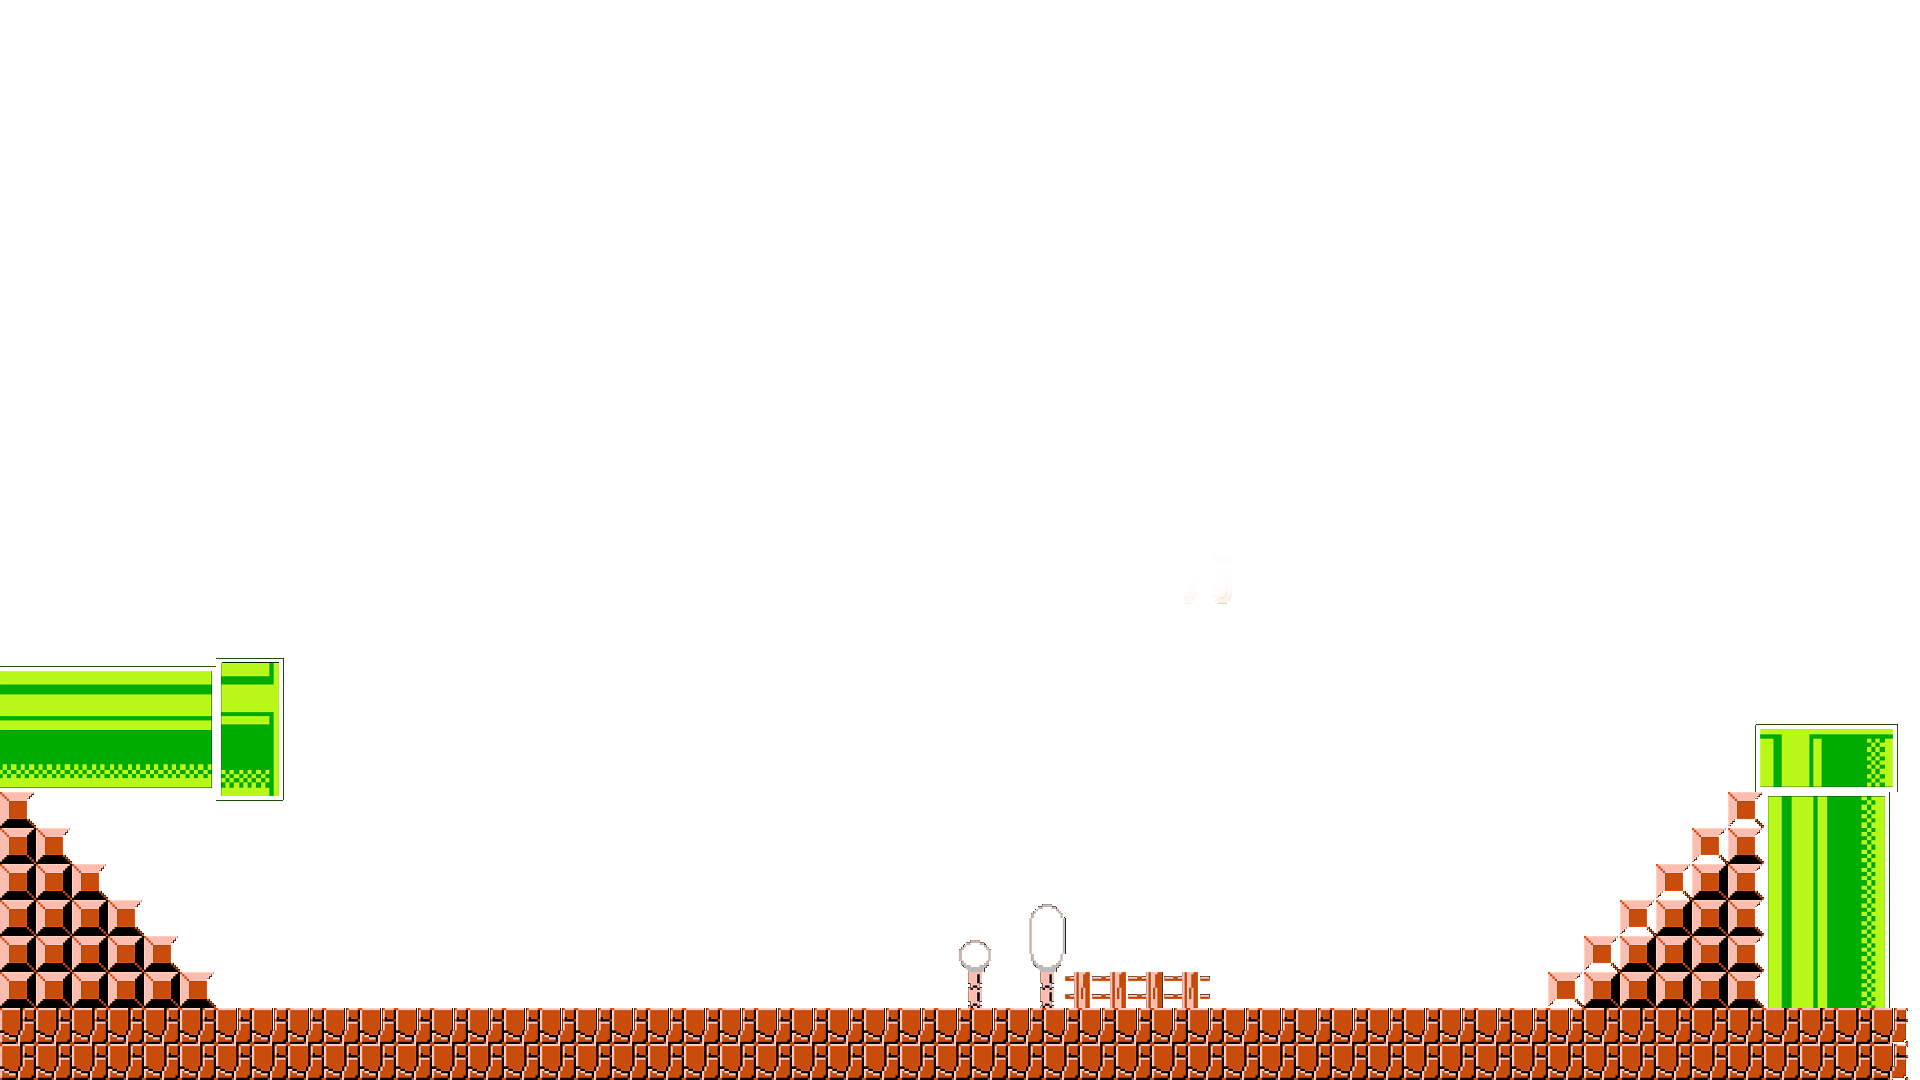
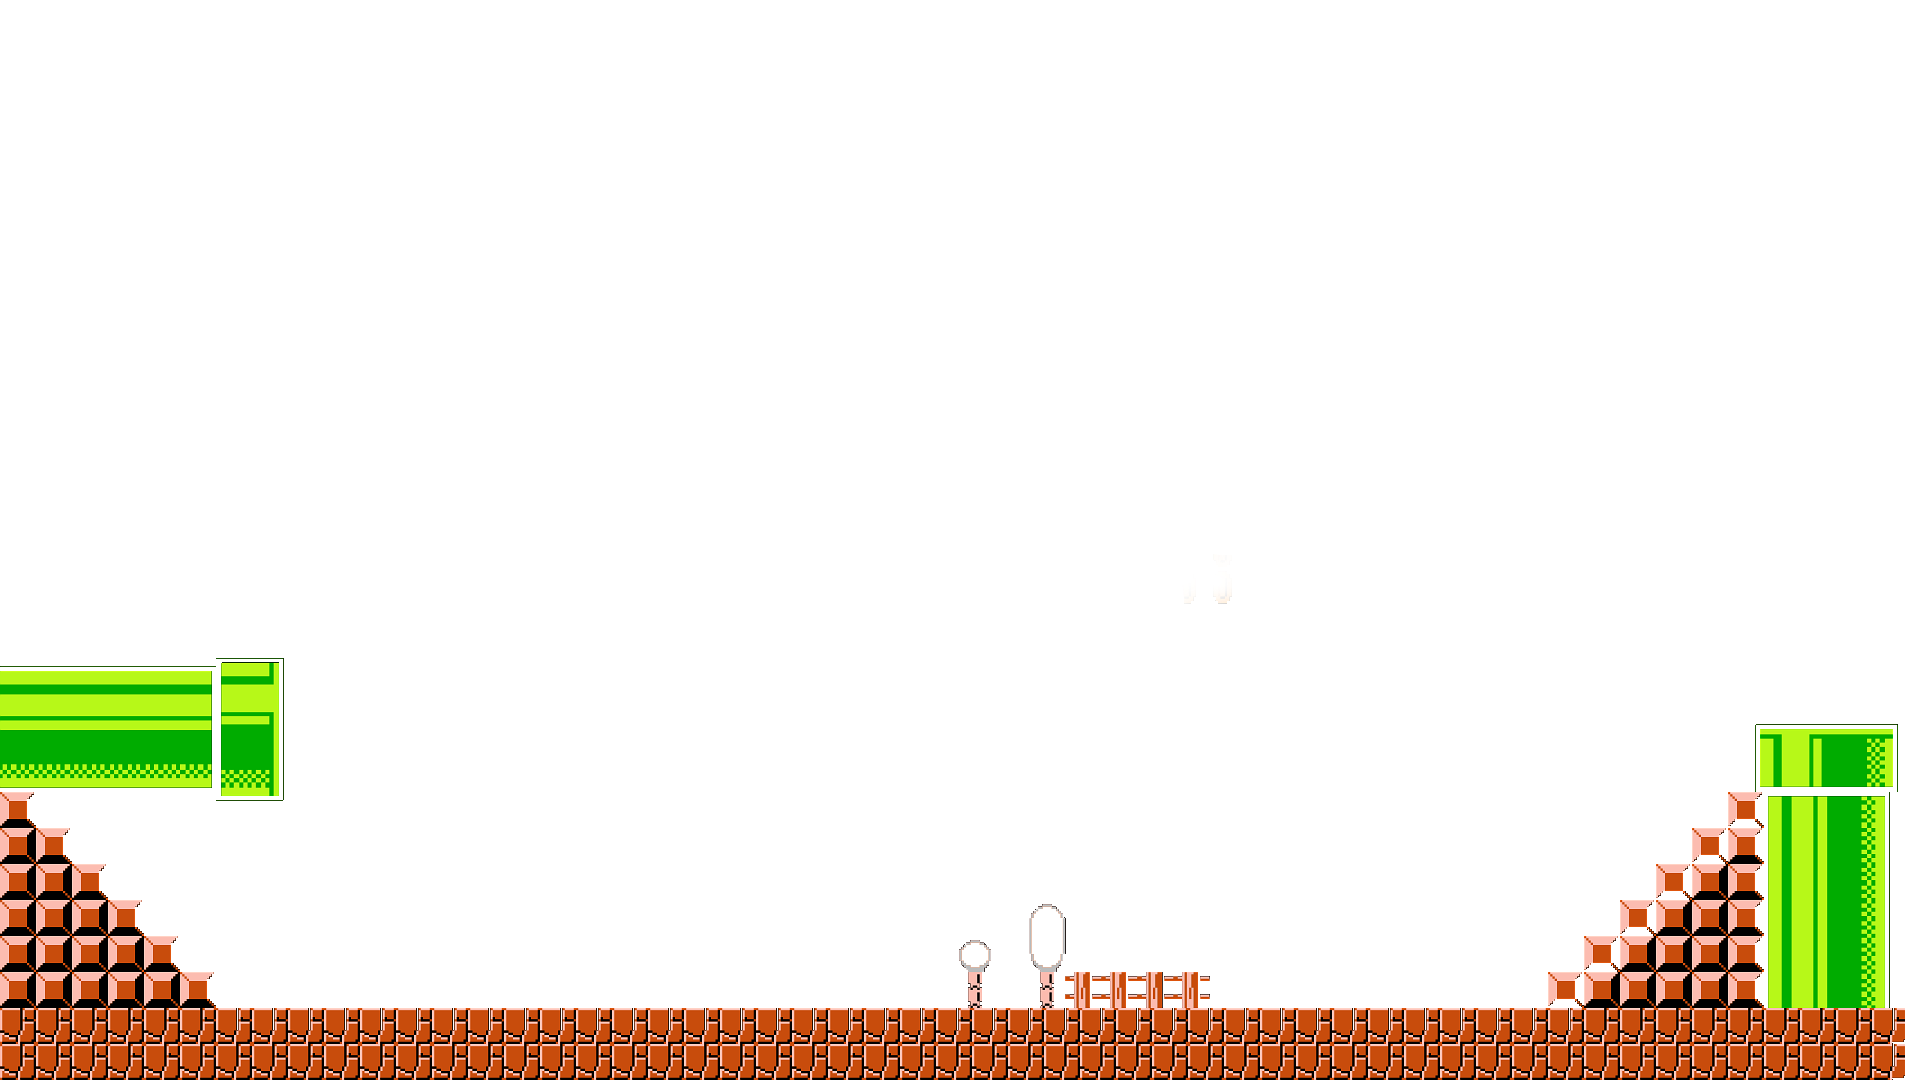
fix: contact background

Changed region(s): [[0.0, 0.6722, 1.0, 1.0], [0.031, 0.6111, 0.1549, 0.7333]]

diff --git a/src/pages/contact/index.tsx b/src/pages/contact/index.tsx
@@ -17,7 +17,7 @@ const Contact = () => {
       <div className='h-full sm:py-0 py-12 flex sm:flex-col justify-center sm:gap-4 gap-12'>
         <Form />
 
-        <div className='sm:py-4 sm:pb-32 py-12 flex flex-col sm:gap-6 gap-10 sm:px-8'>
+        <div className='sm:py-4 sm:pb-24 py-12 flex flex-col sm:gap-6 gap-10 sm:px-8'>
           <span className='font-minecraft uppercase text-yellow text-lg tracking-wider'>
             {findMeOn}
           </span>

diff --git a/src/pages/layout.tsx b/src/pages/layout.tsx
@@ -26,7 +26,7 @@ const Layout: FC<Props> = ({ children }) => {
         <main
           className={`pt-20 sm:px-0 lg:px-24 px-40 2xl:px-56 min-h-screen ${
             router.pathname === '/contact' &&
-            'bg-mario bg-cover bg-no-repeat bg-bottom'
+            'bg-mario sm:bg-marioMobile sm:bg-contain bg-cover bg-no-repeat bg-bottom'
           }`}
         >
           {children}

diff --git a/tailwind.config.ts b/tailwind.config.ts
@@ -47,6 +47,7 @@ module.exports = {
       },
       backgroundImage: () => ({
         mario: "url('/images/mario.png')",
+        marioMobile: "url('/images/mario-mobile.png')",
       }),
       lineHeight: {
         3: '1.2rem',
